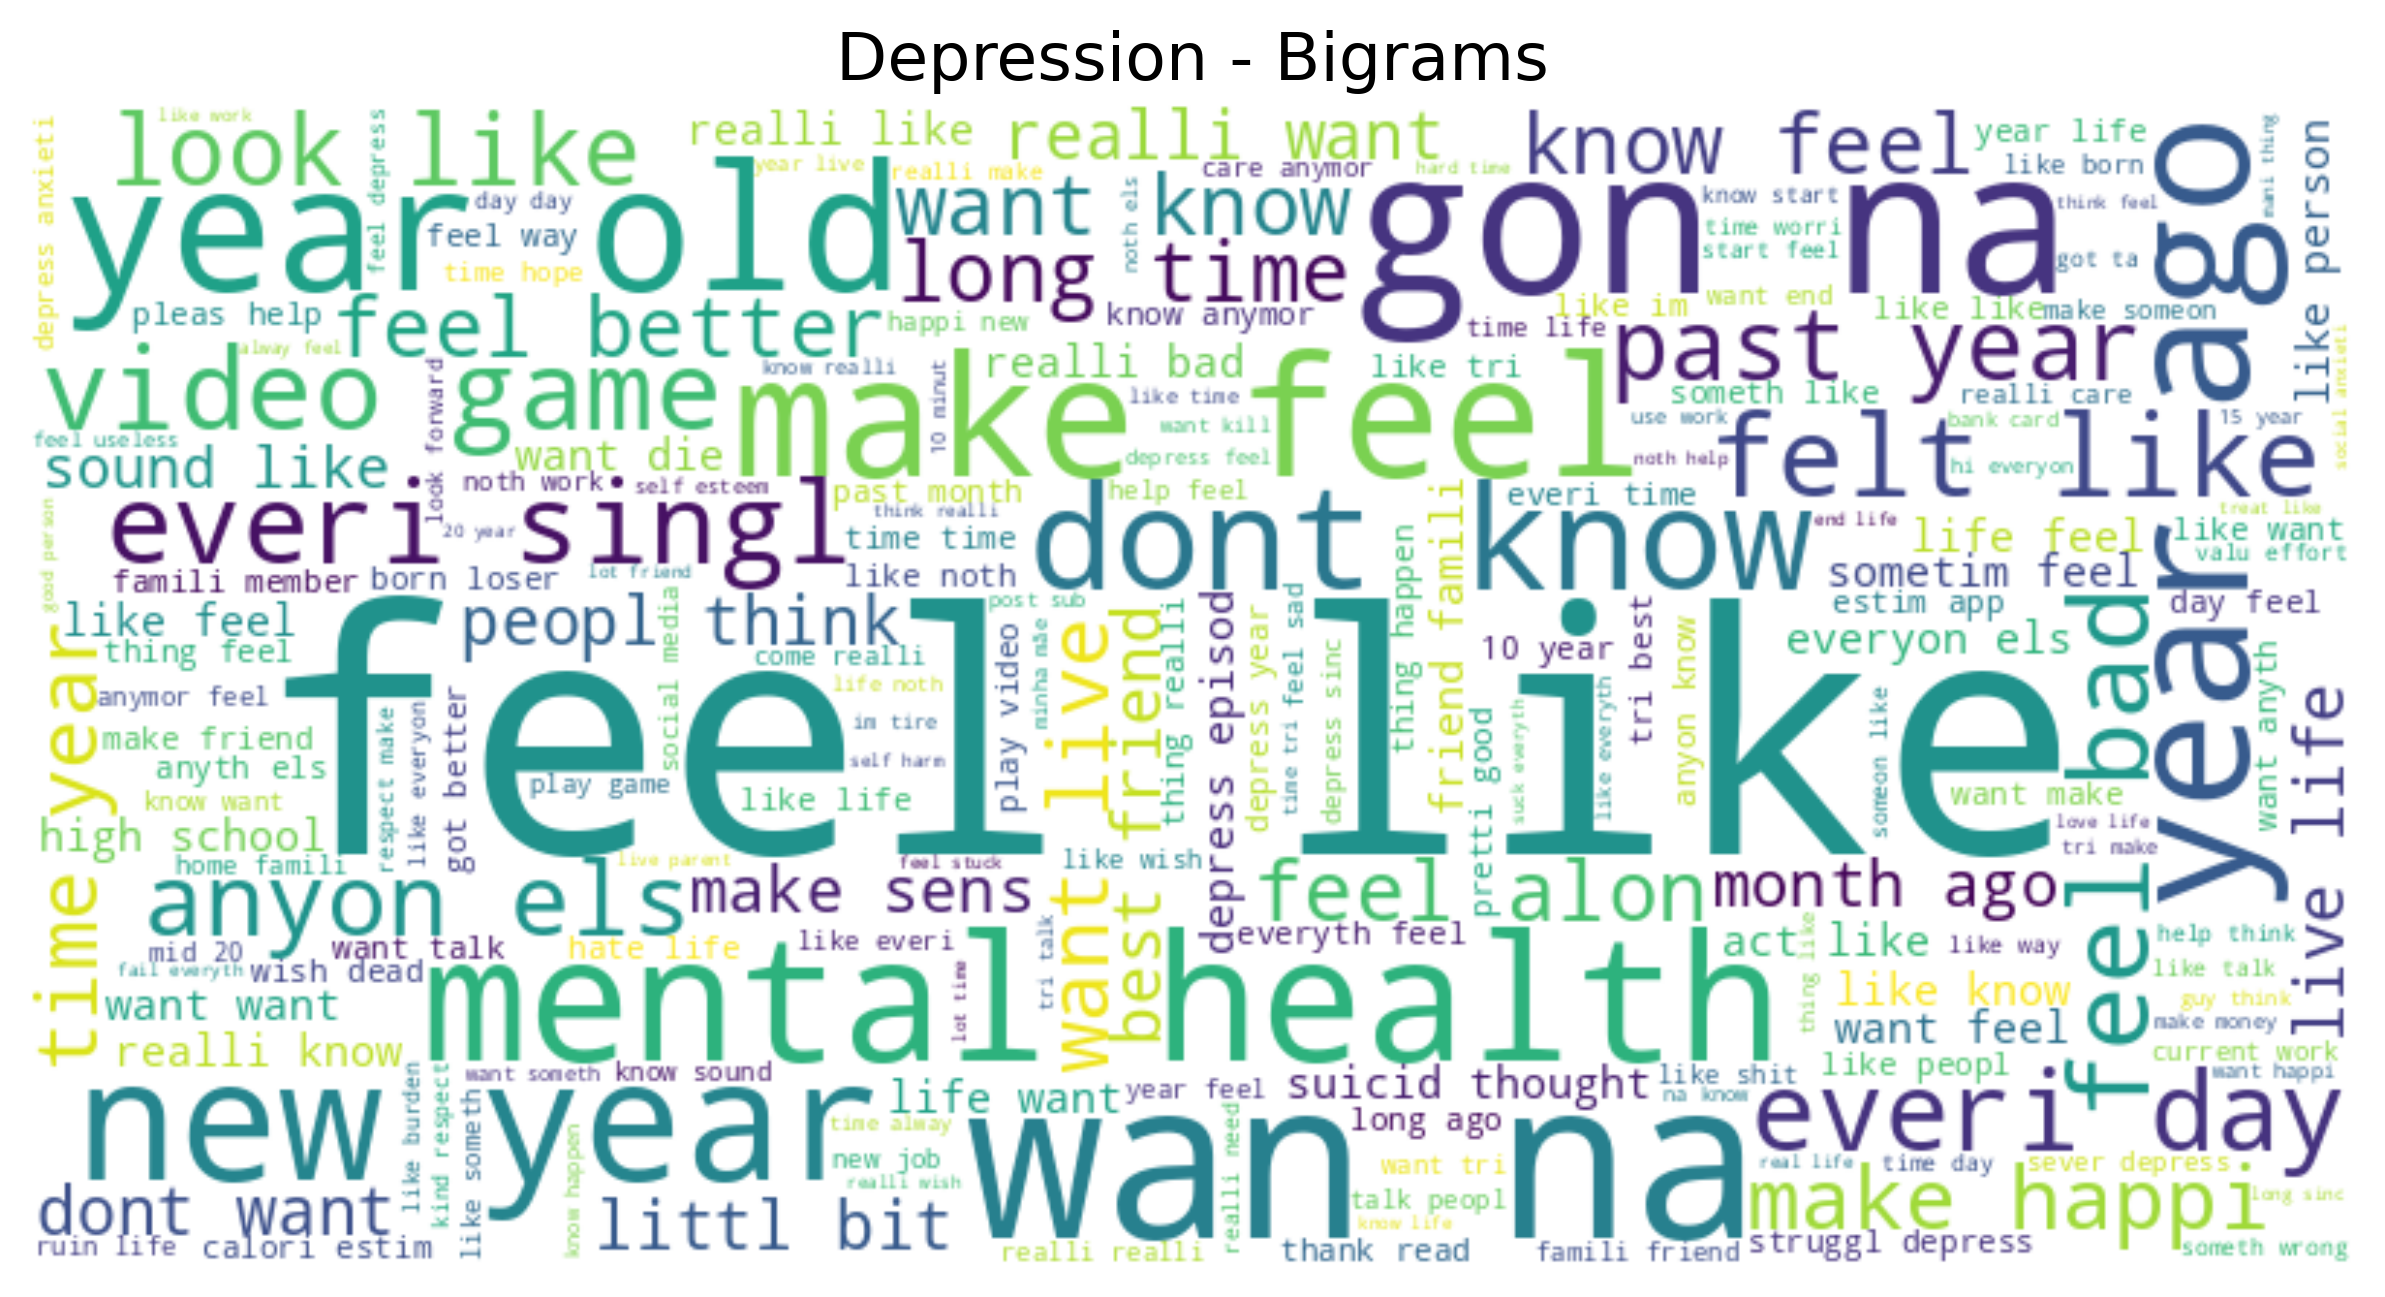
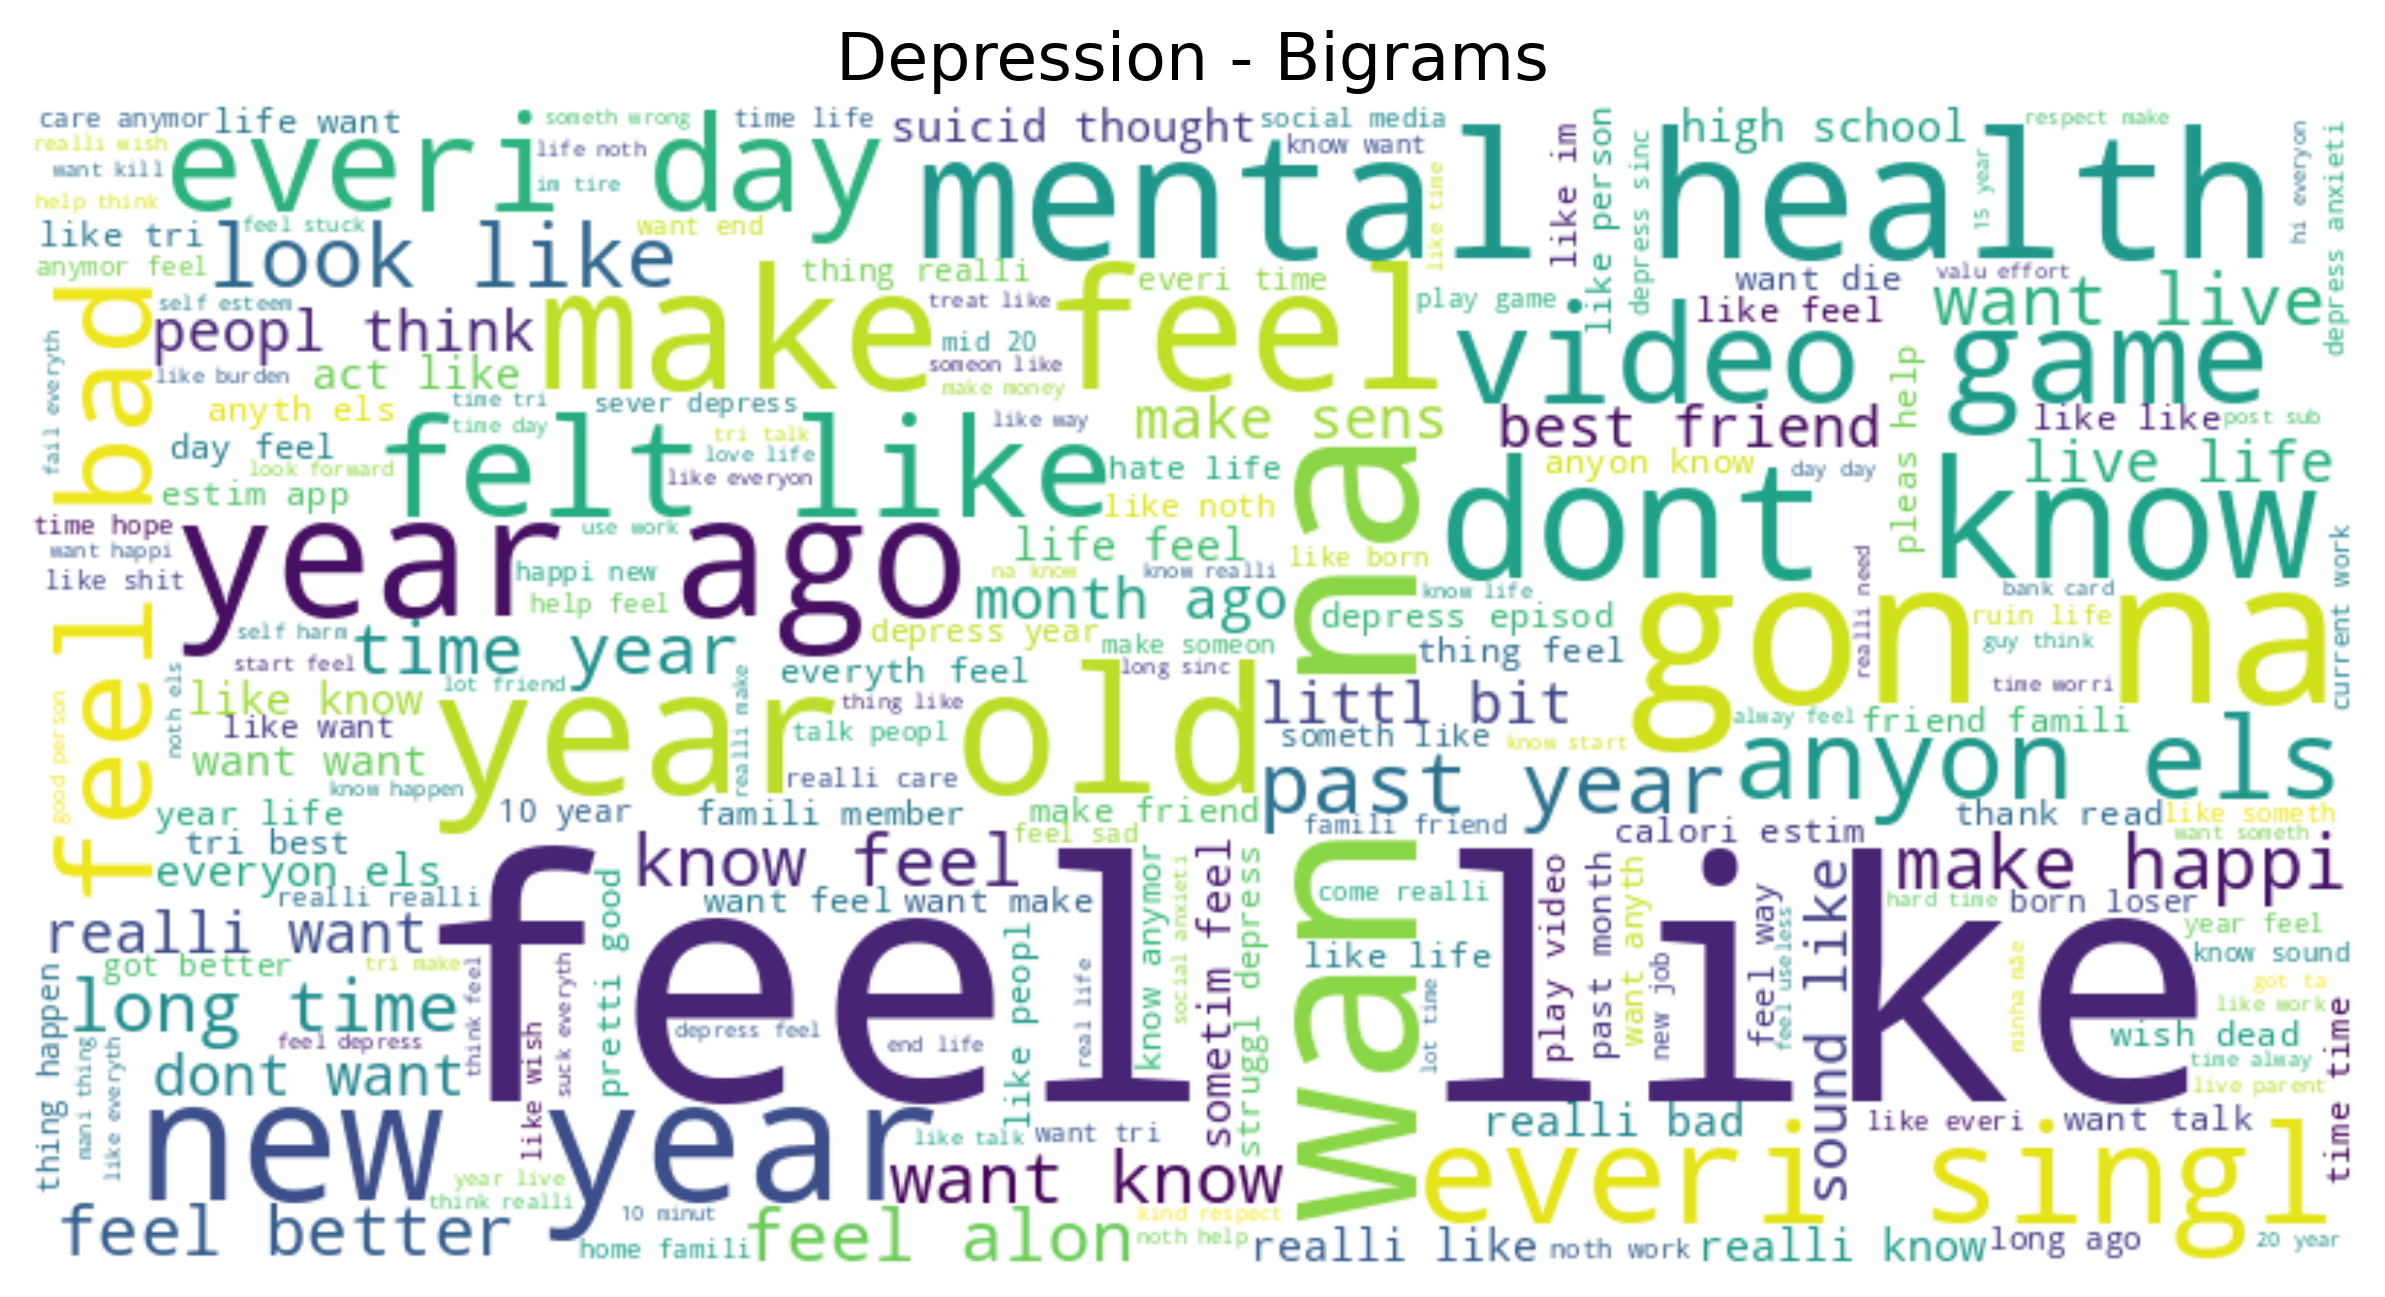
getting tsne and table for depression only

diff --git a/feature_extraction/feature_extraction_func.py b/feature_extraction/feature_extraction_func.py
@@ -534,21 +534,20 @@ class LDAFeatureExtractor(FeatureExtractor):
         ]
         return processed_docs
 
-    def filter_docs_by_word_count(self, processed_docs, min_documents=10):
+    def preprocess_documents_for_subset(self, subset_documents):
         """
-        Filter words that appear in more than 10 documents.
+        Preprocess a subset of documents: tokenize, remove stopwords, and stem.
         """
-        word_doc_count = defaultdict(int)
-        for doc in processed_docs:
-            unique_words = set(doc)
-            for word in unique_words:
-                word_doc_count[word] += 1
-
-        filtered_docs = [
-            [word for word in doc if word_doc_count[word] > min_documents]
-            for doc in processed_docs
+        stop_words = set(stopwords.words('english'))
+        stemmer = PorterStemmer()
+        processed_docs = [
+            [
+                stemmer.stem(word) for word in word_tokenize(doc.lower())
+                if word.isalpha() and word not in stop_words
+            ]
+            for doc in subset_documents
         ]
-        return filtered_docs
+        return processed_docs
 
     def train_lda(self, processed_docs):
         """
@@ -569,49 +568,6 @@ class LDAFeatureExtractor(FeatureExtractor):
             dict(self.lda_model.get_document_topics(doc, minimum_probability=0))
             for doc in self.corpus
         ]
-    
-    def run_tsne(self):
-        tsne = TSNE(n_components=2, random_state=42)
-        tsne_results = tsne.fit_transform(self.topic_matrix)
-        return tsne_results
-
-    def visualize_tsne(self, tsne_results):
-        """
-        Visualize t-SNE results with only topic words displayed and save the plot.
-
-        Parameters:
-        - tsne_results: The 2D coordinates generated by t-SNE.
-        """
-        clusters = KMeans(n_clusters=self.num_topics, random_state=42).fit_predict(self.topic_matrix)
-
-        # Create the output folder if it doesn't exist
-        output_folder = "outputs"
-        os.makedirs(output_folder, exist_ok=True)
-
-        # Create the plot
-        plt.figure(figsize=(10, 8))
-        for i in range(self.num_topics):
-            indices = np.where(clusters == i)
-            plt.scatter(tsne_results[indices, 0], tsne_results[indices, 1], label=f"Topic {i}", alpha=0.6)
-
-        for i, topic in enumerate(self.lda_model.print_topics(num_topics=self.num_topics, num_words=1)):
-            # Extract only the word from the topic string (removing any numbers/statistics)
-            word = topic[1].split('+')[0].strip().split('"')[1]
-            plt.annotate(word,
-                         (np.mean(tsne_results[clusters == i, 0]), np.mean(tsne_results[clusters == i, 1])),
-                         fontsize=10,
-                         bbox=dict(boxstyle="round,pad=0.3", edgecolor='gray', facecolor='white', alpha=0.7))
-
-        plt.title("t-SNE Visualization of LDA Topics")
-        plt.xlabel("t-SNE Dimension 1")
-        plt.ylabel("t-SNE Dimension 2")
-        plt.legend()
-        plt.grid(True)
-
-        output_path = os.path.join(output_folder, "tsne_visualization.png")
-        plt.savefig(output_path, bbox_inches='tight', dpi=300)
-        print(f"t-SNE visualization saved to {output_path}")
-        plt.show()
 
     def topic_distribution_to_matrix(self):
         """
@@ -630,67 +586,114 @@ class LDAFeatureExtractor(FeatureExtractor):
         if not self.topic_distributions:
             raise ValueError("Topic distributions are not extracted.")
 
-        # Prepare the LDA features data
+
         topic_matrix = self.topic_distribution_to_matrix()
         labels_array = np.array(self.labels)
         lda_features_df = pd.DataFrame(topic_matrix)
         lda_features_df['label'] = labels_array
 
-        # Define the filename
-        lda_features_file = "lda_topic_distributions_with_labels.csv"
+        lda_features_file = os.path.join(self.output_folder, "lda_topic_distributions_with_labels.csv")
         self.save_to_csv(lda_features_df, lda_features_file)
 
-    def run_extraction_pipeline(self):
+    def run_tsne(self):
         """
-        Complete LDA pipeline: preprocess, train, extract, visualize, and save.
+        Apply t-SNE for dimensionality reduction on the topic matrix.
         """
-        print("Preprocessing documents...")
+        if not hasattr(self, 'topic_matrix') or self.topic_matrix is None:
+            raise ValueError("Topic matrix has not been generated. Run the analysis pipeline to generate it.")
+
+        tsne = TSNE(n_components=2, random_state=self.random_state)
+        tsne_results = tsne.fit_transform(self.topic_matrix)
+        return tsne_results
+
+    def generate_topic_table(self, output_file="outputs/topic_table_depressed.png"):
+        """
+        Generate a table summarizing LDA topics with most representative words for depressed posts.
+        """
+        topics = []
+        for i, topic in enumerate(self.lda_model.print_topics(num_topics=self.num_topics, num_words=10)):
+            topic_id = f"Topic {i + 1}"
+            words = ", ".join([word.split("*")[1].replace('"', "").strip() for word in topic[1].split("+")])
+            topics.append((topic_id, words))
+
+        topic_df = pd.DataFrame(topics, columns=["Topics", "Most Representative Words"])
+        fig, ax = plt.subplots(figsize=(12, len(topics) * 0.5))
+        ax.axis('tight')
+        ax.axis('off')
+
+        table = ax.table(
+            cellText=topic_df.values,
+            colLabels=topic_df.columns,
+            cellLoc="center",
+            loc="center",
+        )
+        table.auto_set_font_size(False)
+        table.set_fontsize(10)
+        table.auto_set_column_width(col=list(range(len(topic_df.columns))))
+
+        for key, cell in table.get_celld().items():
+            row, col = key
+            if row == 0: 
+                cell.set_text_props(weight="bold")
+                cell.set_fontsize(12)
+
+        os.makedirs(os.path.dirname(output_file), exist_ok=True)
+        plt.savefig(output_file, bbox_inches="tight", dpi=300)
+        print(f"Topic table for depressed posts saved to {output_file}")
+        plt.show()
+
+    def visualize_tsne(self, tsne_results, output_file="outputs/tsne_visualization.png"):
+        """
+        Visualize t-SNE results with only topic words displayed and save the plot.
+        """
+        if not hasattr(self, 'topic_matrix') or self.topic_matrix is None:
+            raise ValueError("Topic matrix has not been generated. Run the analysis pipeline to generate it.")
+
+        # Cluster the topic matrix to group points by topic
+        clusters = KMeans(n_clusters=self.num_topics, random_state=self.random_state).fit_predict(self.topic_matrix)
+
+        # Create figure
+        plt.figure(figsize=(10, 8))
+
+        for i in range(self.num_topics):
+            indices = np.where(clusters == i)
+            plt.scatter(tsne_results[indices, 0], tsne_results[indices, 1], label=f"Topic {i + 1}", alpha=0.6)
+
+        plt.title("t-SNE Visualization of LDA Topics for Depressed Posts")
+        plt.xlabel("t-SNE Dimension 1")
+        plt.ylabel("t-SNE Dimension 2")
+        plt.legend()
+        plt.grid(True)
+
+        os.makedirs(os.path.dirname(output_file), exist_ok=True)
+        plt.savefig(output_file, bbox_inches="tight", dpi=300)
+        print(f"t-SNE visualization saved to {output_file}")
+        plt.show()    
+
+    def run_feature_extraction(self):
+        """
+        Pipeline for feature extraction: preprocess, train LDA, and save features to CSV.
+        """
         processed_docs = self.preprocess_documents()
-        filtered_docs = self.filter_docs_by_word_count(processed_docs)
-
-        print("Training LDA model...")
-        self.train_lda(filtered_docs)
-
-        print("Extracting topic distributions...")
+        self.train_lda(processed_docs)
         self.extract_topic_distributions()
-
-        print("Saving features...")
         self.save_features()
+        print("Feature extraction pipeline complete.")
 
-        print("LDA pipeline complete.")
-
-    def run_analysis_pipeline(self):
+    def run_feature_analysis(self):
         """
-        Complete LDA analysis pipeline with t-SNE visualization.
+        Pipeline for feature analysis: preprocess depressed posts, train LDA, generate t-SNE visualization, and topic table.
         """
-        print("Starting LDA analysis pipeline...")
-
-        # Preprocess
-        print("Preprocessing documents...")
-        processed_docs = self.preprocess_documents()
-        filtered_docs = self.filter_docs_by_word_count(processed_docs)
-
-        # Train the LDA model
-        print("Training LDA model...")
-        self.train_lda(filtered_docs)
-
-        # Extract topic distributions
-        print("Extracting topic distributions...")
+        depressed_indices = [i for i, label in enumerate(self.labels) if label == 1]
+        depressed_docs = [self.documents[i] for i in depressed_indices]
+        processed_docs = self.preprocess_documents_for_subset(depressed_docs)
+        self.train_lda(processed_docs)
         self.extract_topic_distributions()
-
-        # Convert to matrix
-        print("Converting topic distributions to matrix format...")
         self.topic_matrix = self.topic_distribution_to_matrix()
-
-        # t-SNE for dimensionality reduction
-        print("Applying t-SNE for visualization...")
         self.tsne_results = self.run_tsne()
-
-        # Visualize
-        print("Visualizing t-SNE...")
         self.visualize_tsne(self.tsne_results)
-
-        print("LDA analysis pipeline complete.")
+        self.generate_topic_table()
+        print("Feature analysis pipeline for depressed posts complete.")
 
 
 ###############################################################################

diff --git a/feature_analysis/feature_analysis.py b/feature_analysis/feature_analysis.py
@@ -22,7 +22,7 @@ empath_extractor.save_correlation_table(output_folder)
 
 # LDA Analysis
 lda_extractor = LDAFeatureExtractor(num_topics=20)
-lda_extractor.run_analysis_pipeline()
+lda_extractor.run_feature_analysis()
 
 # Getting the output table for number of features found in every extraction
 generate_summary_table(ngram_extractor, empath_extractor, lda_extractor, f"{output_folder}/summary_table")

diff --git a/feature_extraction/feature_extraction.py b/feature_extraction/feature_extraction.py
@@ -13,5 +13,5 @@ empath_extractor.save_features_and_results()
 
 # Initialize LDA Feature Extractor
 lda_extractor = LDAFeatureExtractor()
-lda_extractor.run_extraction_pipeline()
+lda_extractor.run_feature_extraction()
 
